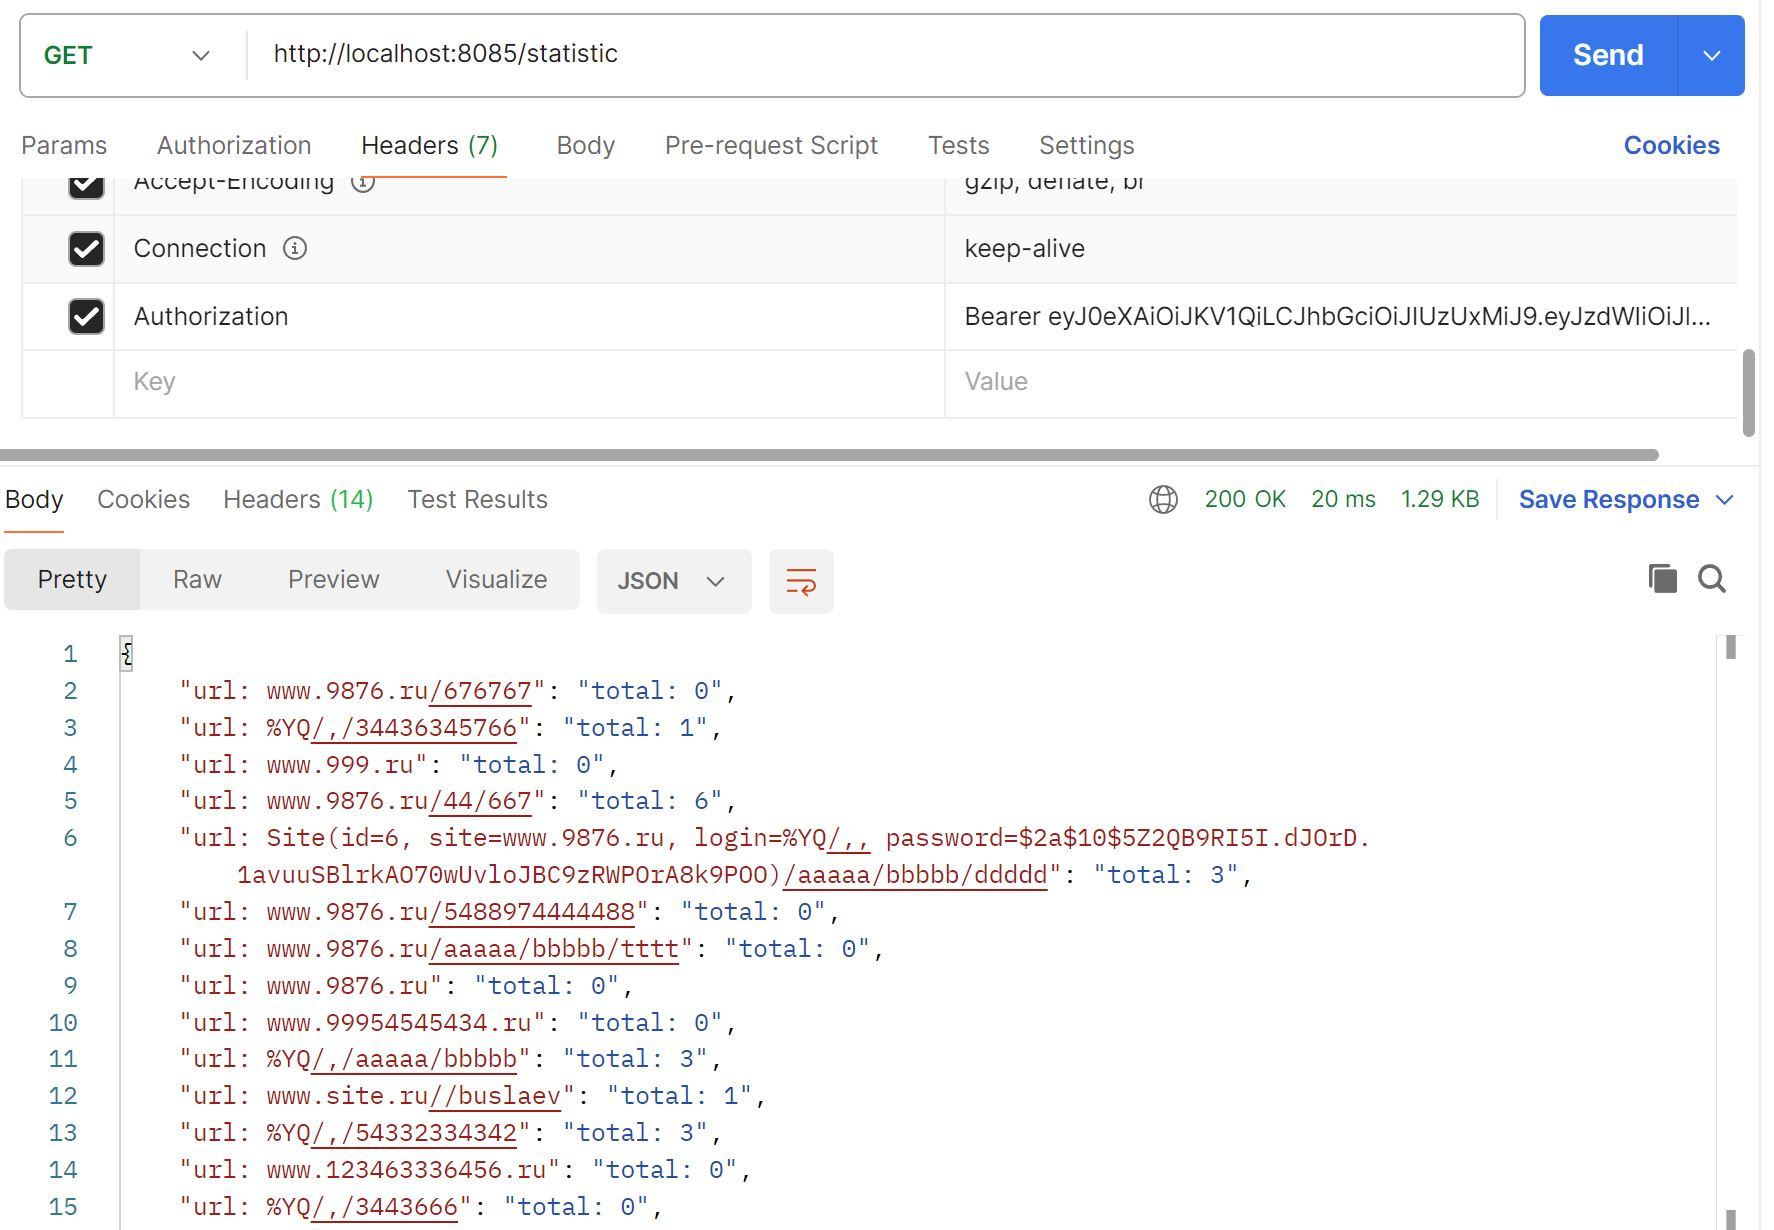
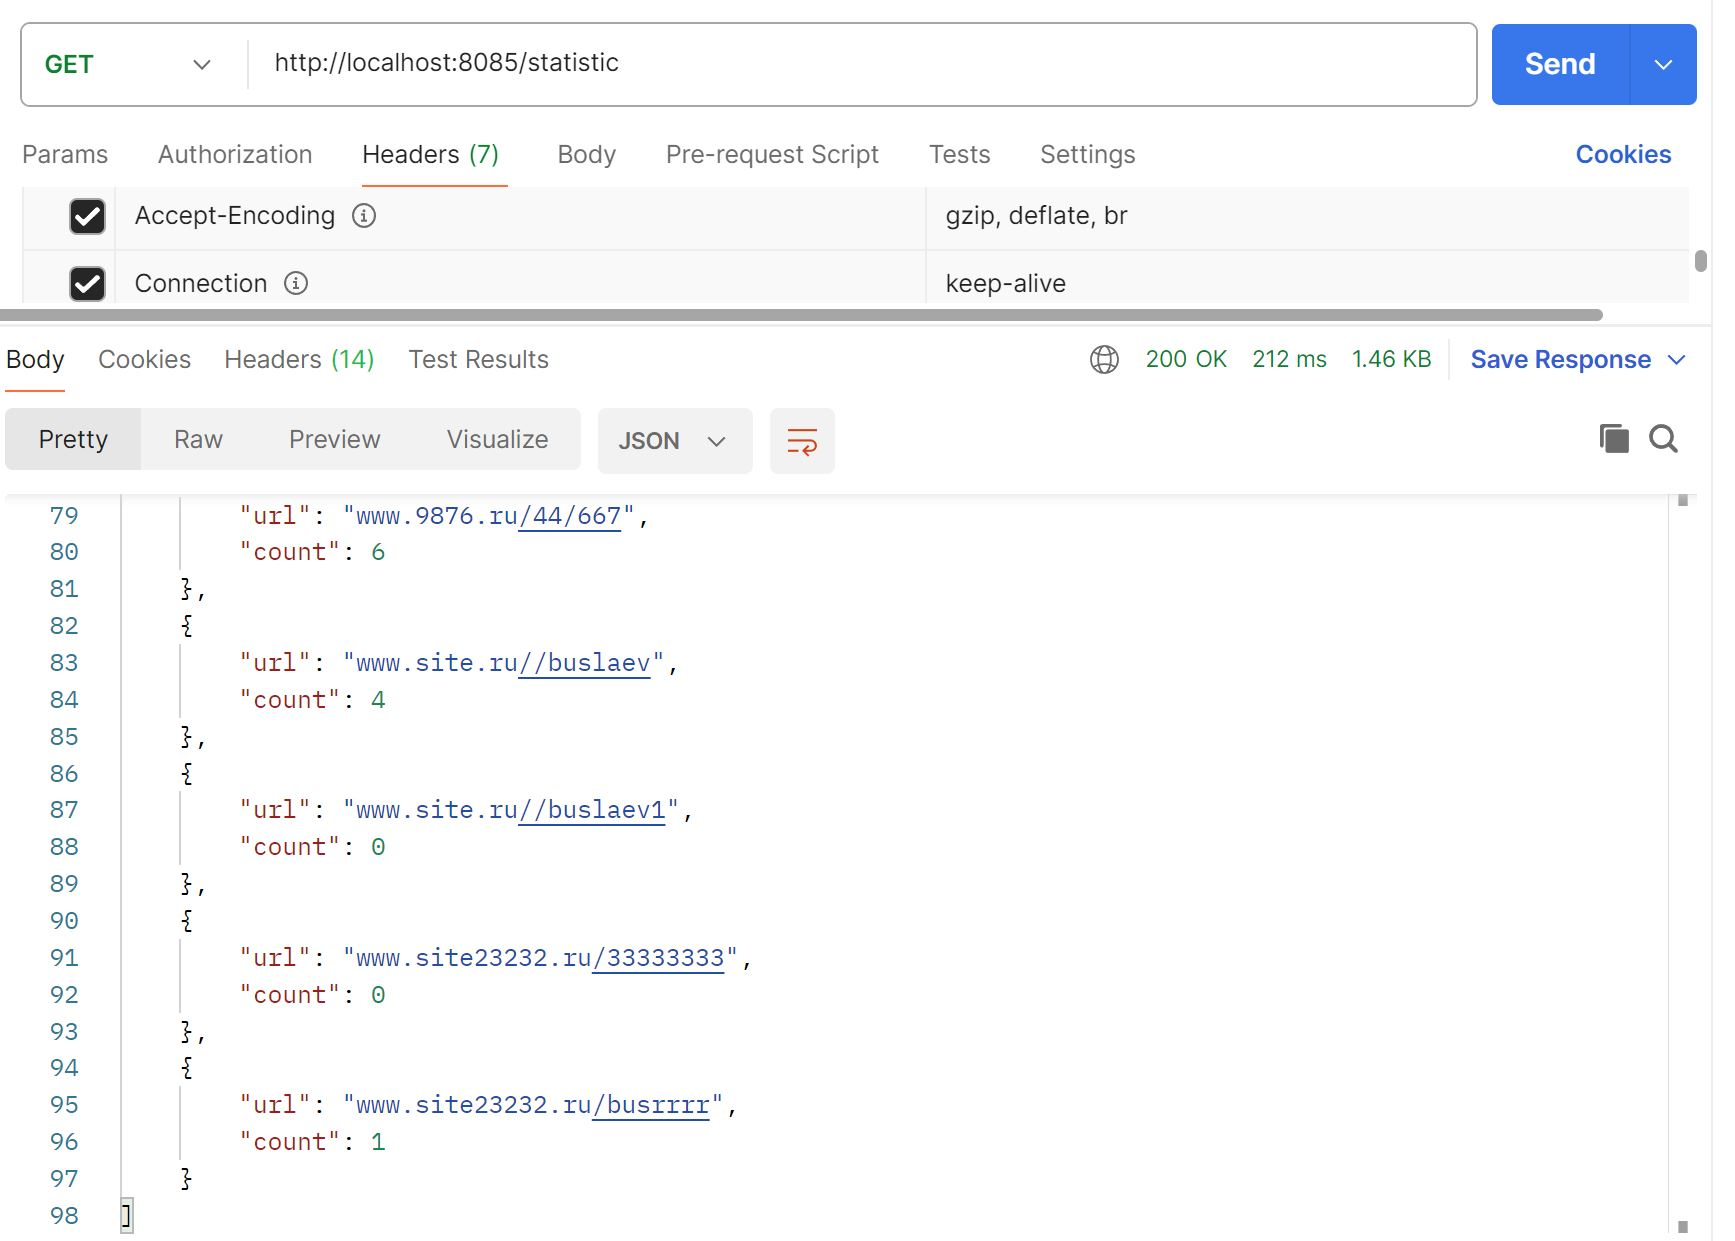
edit методы save c обработкой Exception (без Optional), @GetMapping("/statistic") теперь возвращает JSON, добавлен Swagger

diff --git a/src/main/java/ru/job4j/url/shortcut/controller/UrlController.java b/src/main/java/ru/job4j/url/shortcut/controller/UrlController.java
@@ -1,6 +1,8 @@
 package ru.job4j.url.shortcut.controller;
 
 import lombok.AllArgsConstructor;
+
+import org.springframework.dao.DataIntegrityViolationException;
 import org.springframework.http.HttpStatus;
 import org.springframework.http.ResponseEntity;
 
@@ -8,12 +10,17 @@ import org.springframework.security.core.context.SecurityContextHolder;
 import org.springframework.util.MultiValueMapAdapter;
 import org.springframework.web.bind.annotation.*;
 import org.springframework.web.server.ResponseStatusException;
+import ru.job4j.url.shortcut.exception.ControllerException;
+import ru.job4j.url.shortcut.exception.ServiceException;
+import ru.job4j.url.shortcut.model.StatisticDTO;
+import ru.job4j.url.shortcut.model.Url;
 import ru.job4j.url.shortcut.model.UrlDto;
 import ru.job4j.url.shortcut.model.UrlResultDto;
 import ru.job4j.url.shortcut.service.SiteService;
 import ru.job4j.url.shortcut.service.UrlService;
 
 import javax.validation.Valid;
+import java.util.Collection;
 import java.util.List;
 import java.util.Map;
 import java.util.stream.Collectors;
@@ -26,15 +33,19 @@ public class UrlController {
     private final SiteService siteService;
 
     @PostMapping("/convert")
-    public ResponseEntity<UrlResultDto> convert(@Valid @RequestBody UrlDto address) {
+    public ResponseEntity<UrlResultDto> convert(@Valid @RequestBody UrlDto address) throws ControllerException {
         String site = siteService.findByLogin(
                 SecurityContextHolder.getContext().getAuthentication().getName()).getSite();
         address.setAddress(site + "/" + address.getAddress());
-        var result = this.urlService.save(address);
-        if (result.isEmpty()) {
-            throw new ResponseStatusException(HttpStatus.BAD_REQUEST, "Url уже существует");
+        try {
+            var result = this.urlService.save(address);
+            return ResponseEntity.ok(result);
+        } catch (ServiceException e) {
+            if (e.getCause() instanceof DataIntegrityViolationException) {
+                throw new ResponseStatusException(HttpStatus.BAD_REQUEST);
+            }
+            throw new ControllerException("не удается преобразовать", e);
         }
-        return ResponseEntity.ok(new UrlResultDto(result.get().getKey()));
     }
 
     @GetMapping("/redirect/{key}")
@@ -53,11 +64,11 @@ public class UrlController {
     }
 
     @GetMapping("/statistic")
-    public ResponseEntity<Map<String, String>> statistic() {
-        Map<String, String> map = urlService.findAll().stream()
-                .collect(Collectors.toMap(
-                        url1 -> "url: " + url1.getUrl(),
-                        url -> "total: " + url.getCount()));
+    public ResponseEntity<?> statistic() {
+        Collection<StatisticDTO> map = urlService.findAll()
+                .stream()
+                .map(u -> new StatisticDTO(u.getUrl(), u.getCount()))
+                .collect(Collectors.toList());
         return ResponseEntity.ok(map);
     }
 }

diff --git a/src/main/java/ru/job4j/url/shortcut/service/SiteService.java b/src/main/java/ru/job4j/url/shortcut/service/SiteService.java
@@ -2,13 +2,13 @@ package ru.job4j.url.shortcut.service;
 
 import lombok.AllArgsConstructor;
 import lombok.extern.slf4j.Slf4j;
-import org.springframework.dao.DataIntegrityViolationException;
 import org.springframework.security.core.userdetails.User;
 import org.springframework.security.core.userdetails.UserDetails;
 import org.springframework.security.core.userdetails.UserDetailsService;
 import org.springframework.security.core.userdetails.UsernameNotFoundException;
 import org.springframework.security.crypto.bcrypt.BCryptPasswordEncoder;
 import org.springframework.stereotype.Service;
+import ru.job4j.url.shortcut.exception.ServiceException;
 import ru.job4j.url.shortcut.model.Site;
 import ru.job4j.url.shortcut.model.SiteDTO;
 import ru.job4j.url.shortcut.model.SiteResultDTO;
@@ -26,24 +26,23 @@ public class SiteService implements UserDetailsService {
     private final SiteRepository siteRepository;
     private BCryptPasswordEncoder bCryptPasswordEncoder;
 
-    public Optional<SiteResultDTO> save(SiteDTO site) {
-        Optional<SiteResultDTO> dtoOptional = Optional.empty();
+    public SiteResultDTO save(SiteDTO site) throws ServiceException {
+        var result = new SiteResultDTO(false,
+                        new RandomGenerator().generate(),
+                        new RandomGenerator().generate()
+                );
         try {
-            dtoOptional = Optional.of(
-                    new SiteResultDTO(false,
-                            new RandomGenerator().generate(),
-                            new RandomGenerator().generate()
-                    ));
             Site newSite = new Site();
             newSite.setSite(site.getSite());
-            newSite.setLogin(dtoOptional.get().getLogin());
-            newSite.setPassword(bCryptPasswordEncoder.encode(dtoOptional.get().getPassword()));
+            newSite.setLogin(result.getLogin());
+            newSite.setPassword(bCryptPasswordEncoder.encode(result.getPassword()));
             siteRepository.save(newSite);
-            dtoOptional.get().setRegistration(true);
-        } catch (DataIntegrityViolationException e) {
+            result.setRegistration(true);
+        } catch (Exception e) {
             log.error("Сайт с этим login уже существует", e);
+            throw new ServiceException("Сайт с этим login уже существует", e);
         }
-        return dtoOptional;
+        return result;
     }
 
     @Override

diff --git a/src/main/java/ru/job4j/url/shortcut/controller/SiteController.java b/src/main/java/ru/job4j/url/shortcut/controller/SiteController.java
@@ -1,11 +1,14 @@
 package ru.job4j.url.shortcut.controller;
 
 import lombok.AllArgsConstructor;
+import org.springframework.dao.DataIntegrityViolationException;
 import org.springframework.http.HttpStatus;
 import org.springframework.http.ResponseEntity;
 import org.springframework.web.bind.annotation.PostMapping;
 import org.springframework.web.bind.annotation.RequestBody;
 import org.springframework.web.bind.annotation.RestController;
+import ru.job4j.url.shortcut.exception.ControllerException;
+import ru.job4j.url.shortcut.exception.ServiceException;
 import ru.job4j.url.shortcut.model.SiteDTO;
 import ru.job4j.url.shortcut.model.SiteResultDTO;
 import ru.job4j.url.shortcut.service.SiteService;
@@ -19,13 +22,17 @@ public class SiteController {
     private final SiteService siteService;
 
     @PostMapping("/registration")
-    public ResponseEntity<SiteResultDTO> registration(@Valid @RequestBody SiteDTO siteDTO) {
-        var result = this.siteService.save(siteDTO);
-        if (result.isEmpty()) {
-            return new ResponseEntity<>(
-                    new SiteResultDTO(false, null, null),
-                    HttpStatus.CONFLICT);
+    public ResponseEntity<SiteResultDTO> registration(@Valid @RequestBody SiteDTO siteDTO) throws ControllerException {
+        try {
+            var result = this.siteService.save(siteDTO);
+            return ResponseEntity.ok(result);
+        } catch (ServiceException e) {
+            if (e.getCause() instanceof DataIntegrityViolationException) {
+                return new ResponseEntity<>(
+                        new SiteResultDTO(false, null, null),
+                        HttpStatus.CONFLICT);
+            }
+            throw new ControllerException("не удается сохранить сайт", e);
         }
-        return ResponseEntity.ok(result.get());
     }
 }

diff --git a/src/main/java/ru/job4j/url/shortcut/service/UrlService.java b/src/main/java/ru/job4j/url/shortcut/service/UrlService.java
@@ -2,7 +2,7 @@ package ru.job4j.url.shortcut.service;
 
 import lombok.AllArgsConstructor;
 import lombok.extern.slf4j.Slf4j;
-import org.springframework.dao.DataIntegrityViolationException;
+import ru.job4j.url.shortcut.exception.ServiceException;
 import org.springframework.stereotype.Service;
 import ru.job4j.url.shortcut.model.*;
 import ru.job4j.url.shortcut.repository.UrlRepository;
@@ -18,17 +18,17 @@ public class UrlService {
 
     private UrlRepository urlRepository;
 
-    public Optional<Url> save(UrlDto address) {
-        Optional<Url> urlOptional = Optional.empty();
+    public UrlResultDto save(UrlDto address) throws ServiceException {
+        Url url = new Url();
+        url.setUrl(address.getAddress());
+        url.setKey(new RandomGenerator().generate());
         try {
-            Url url = new Url();
-            url.setUrl(address.getAddress());
-            url.setKey(new RandomGenerator().generate());
-            urlOptional = Optional.of(urlRepository.save(url));
-        } catch (DataIntegrityViolationException e) {
+            var result = urlRepository.save(url);
+            return new UrlResultDto(result.getKey());
+        } catch (Exception e) {
             log.error("Url уже существует", e);
+            throw new ServiceException("Url уже существует", e);
         }
-        return urlOptional;
     }
 
     public Optional<Url> findByKey(String key) {

diff --git a/src/main/java/ru/job4j/url/shortcut/handlers/GlobalExceptionHandler.java b/src/main/java/ru/job4j/url/shortcut/handlers/GlobalExceptionHandler.java
@@ -1,0 +1,34 @@
+package ru.job4j.url.shortcut.handlers;
+
+import com.fasterxml.jackson.databind.ObjectMapper;
+import org.slf4j.Logger;
+import lombok.AllArgsConstructor;
+import org.slf4j.LoggerFactory;
+import org.springframework.http.HttpStatus;
+import org.springframework.web.bind.annotation.ControllerAdvice;
+import org.springframework.web.bind.annotation.ExceptionHandler;
+
+import javax.servlet.http.HttpServletRequest;
+import javax.servlet.http.HttpServletResponse;
+import java.io.IOException;
+import java.util.HashMap;
+
+@ControllerAdvice
+@AllArgsConstructor
+public class GlobalExceptionHandler {
+
+    private static final Logger LOGGER = LoggerFactory.getLogger(GlobalExceptionHandler.class.getSimpleName());
+
+    private final ObjectMapper objectMapper;
+
+    @ExceptionHandler(value = {NullPointerException.class})
+    public void handleNPE(Exception e, HttpServletRequest request, HttpServletResponse response) throws IOException {
+        response.setStatus(HttpStatus.BAD_REQUEST.value());
+        response.setContentType("application/json");
+        response.getWriter().write(objectMapper.writeValueAsString(new HashMap<>() { {
+            put("message", "Some of fields empty");
+            put("details", e.getMessage());
+        }}));
+        LOGGER.error(e.toString());
+    }
+}

diff --git a/src/main/java/ru/job4j/url/shortcut/config/WebSecurity.java b/src/main/java/ru/job4j/url/shortcut/config/WebSecurity.java
@@ -33,8 +33,10 @@ public class WebSecurity extends WebSecurityConfigurerAdapter {
         http.cors().and().csrf().disable().authorizeRequests()
                 .antMatchers(HttpMethod.POST, SIGN_UP_URL).permitAll()
                 .antMatchers(HttpMethod.GET, "/redirect/**").permitAll()
+                .antMatchers(HttpMethod.GET, "/v2/**").permitAll()
                 .antMatchers(HttpMethod.GET, "/v3/**").permitAll()
                 .antMatchers(HttpMethod.GET, "/swagger-ui/**").permitAll()
+                .antMatchers(HttpMethod.GET, "/swagger-resources/**").permitAll()
                 .anyRequest().authenticated()
                 .and()
                 .addFilter(new JWTAuthenticationFilter(authenticationManager()))

diff --git a/src/main/java/ru/job4j/url/shortcut/Job4jUrlShortcutApplication.java b/src/main/java/ru/job4j/url/shortcut/Job4jUrlShortcutApplication.java
@@ -18,6 +18,9 @@ public class Job4jUrlShortcutApplication extends SpringBootServletInitializer {
 	public static void main(String[] args) {
 		SpringApplication.run(Job4jUrlShortcutApplication.class, args);
 		System.out.println("Go to http://localhost:8085/");
+		System.out.println("Go to http://localhost:8085/v2/api-docs/");
+		System.out.println("Go to http://localhost:8085/v3/api-docs/");
+		System.out.println("Go to http://localhost:8085/swagger-ui/index.html");
 	}
 
 	@Bean

diff --git a/src/main/java/ru/job4j/url/shortcut/model/Url.java b/src/main/java/ru/job4j/url/shortcut/model/Url.java
@@ -6,6 +6,7 @@ import lombok.EqualsAndHashCode;
 import lombok.NoArgsConstructor;
 
 import javax.persistence.*;
+import javax.validation.constraints.NotNull;
 
 @Data
 @Entity
@@ -17,6 +18,7 @@ public class Url {
     @Id
     @GeneratedValue(strategy = GenerationType.IDENTITY)
     @EqualsAndHashCode.Include
+    @NotNull
     private int id;
     private int count = 0;
     private String url;

diff --git a/src/main/java/ru/job4j/url/shortcut/model/Site.java b/src/main/java/ru/job4j/url/shortcut/model/Site.java
@@ -1,8 +1,8 @@
 package ru.job4j.url.shortcut.model;
 
 import lombok.*;
-
 import javax.persistence.*;
+import javax.validation.constraints.NotNull;
 
 @Data
 @Entity
@@ -14,6 +14,7 @@ public class Site {
     @Id
     @GeneratedValue(strategy = GenerationType.IDENTITY)
     @EqualsAndHashCode.Include
+    @NotNull
     private int id;
     private String site;
     private String login;

diff --git a/src/main/java/ru/job4j/url/shortcut/model/StatisticDTO.java b/src/main/java/ru/job4j/url/shortcut/model/StatisticDTO.java
@@ -1,0 +1,17 @@
+package ru.job4j.url.shortcut.model;
+
+import lombok.AllArgsConstructor;
+import lombok.Data;
+import lombok.EqualsAndHashCode;
+import lombok.NoArgsConstructor;
+
+import java.util.function.Supplier;
+
+@Data
+@AllArgsConstructor
+@NoArgsConstructor
+public class StatisticDTO {
+
+    private String url;
+    private int count;
+}

diff --git a/src/main/java/ru/job4j/url/shortcut/exception/ControllerException.java b/src/main/java/ru/job4j/url/shortcut/exception/ControllerException.java
@@ -1,0 +1,7 @@
+package ru.job4j.url.shortcut.exception;
+
+public class ControllerException extends Exception {
+    public ControllerException(String message, Exception cause) {
+        super(message, cause);
+    }
+}

diff --git a/src/main/java/ru/job4j/url/shortcut/exception/ServiceException.java b/src/main/java/ru/job4j/url/shortcut/exception/ServiceException.java
@@ -1,0 +1,7 @@
+package ru.job4j.url.shortcut.exception;
+
+public class ServiceException extends Exception {
+    public ServiceException(String message, Exception cause) {
+        super(message, cause);
+    }
+}
